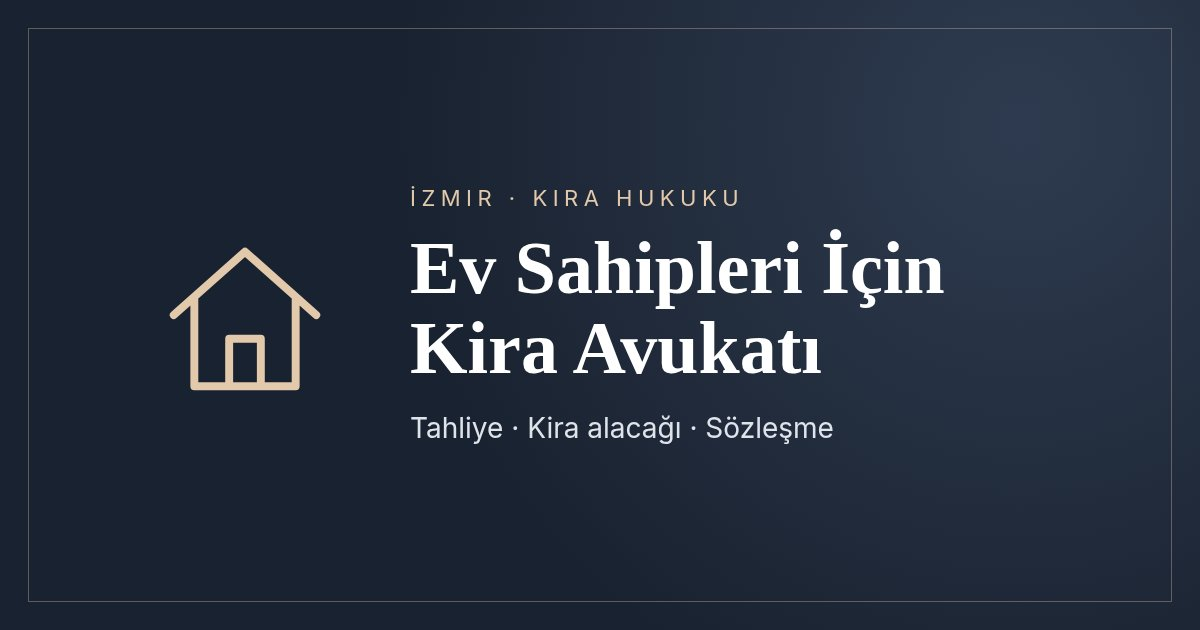
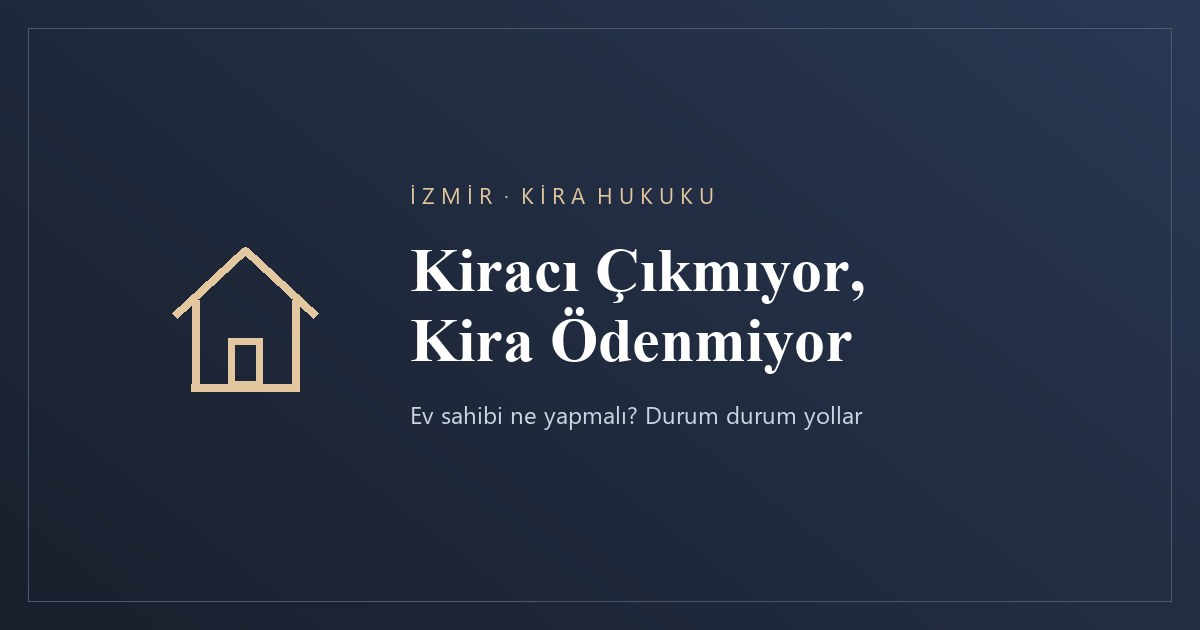
GEO: ev sahibi rehberi (aynı URL) ve tüm yazılara otomatik Kaynaklar, citation, abstract
- /blog/ev-sahipleri-icin-kira-avukati/ ayrı sayfa açmadan (kanibalizasyonu önlemek için) "Kiracı Çıkmıyor veya Kira Ödenmiyor: Ev Sahibi Ne Yapmalı?" rehberine dönüştürüldü: Kısa Cevap, Önemli noktalar, durum/yol/süre tablosu, Örnek 13 adımları, arabuluculuk (18/A-11 güncel), belgeler. TBK 342 (depozito) cümlesi çıkarıldı. Yeni kapak, link metinleri ve llms.txt güncellendi.
- src/lib/laws.ts: ortak mevzuat tablosu (services.ts buradan alır), metinden kanun atıflarını çıkaran extractLawCitations ve Kısa Cevap'ı okuyan extractShortAnswer
- PostArticle: kendi "Kaynaklar" bölümü olmayan her yazıya otomatik Kaynaklar (içtihat notlarında karar künyesi + mevzuat linkleri); yeni hukuki iddia eklenmez
- ArticleSchema: abstract ve citation (Legislation + karar)

diff --git a/src/components/blog/PostArticle.tsx b/src/components/blog/PostArticle.tsx
@@ -17,6 +17,8 @@ import { RelatedPosts } from "@/components/blog/RelatedPosts";
 import { BreadcrumbNav } from "@/components/ui/BreadcrumbNav";
 import { articleProseClasses } from "@/lib/prose-classes";
 import { SITE_NAME } from "@/lib/site";
+import { LAWS, extractLawCitations, extractShortAnswer } from "@/lib/laws";
+import { parseDecision } from "@/lib/blog/ictihat";
 import { format, parseISO } from "date-fns";
 import { tr } from "date-fns/locale";
 
@@ -84,6 +86,19 @@ export function PostArticle({ post }: { post: PostData }) {
 
     const articleUrl = `${SITE_URL}${postHref(post)}`;
 
+    // GEO: metinden türeyen kaynaklar (yeni hukuki iddia eklenmez)
+    const lawSources = extractLawCitations(post.content);
+    const decision = isIctihat ? parseDecision(post) : undefined;
+    const decisionLabel = decision?.court && decision.esas && decision.karar
+        ? `${decision.court}, E. ${decision.esas}, K. ${decision.karar}${decision.tarih ? `, karar tarihi ${decision.tarih}` : ""}`
+        : undefined;
+    const hasOwnSources = /^##\s*Kaynaklar\s*$/m.test(post.content);
+    const shortAnswer = extractShortAnswer(post.content);
+    const citations = [
+        ...(decisionLabel ? [{ "@type": "CreativeWork", "name": decisionLabel }] : []),
+        ...lawSources.map((src) => ({ "@type": "Legislation", "name": LAWS[src.law].name, "url": LAWS[src.law].url })),
+    ];
+
     return (
         <article lang={post.lang || "tr"} className="bg-white min-h-screen pb-24">
             {/* SEO Schemas */}
@@ -94,6 +109,8 @@ export function PostArticle({ post }: { post: PostData }) {
                 dateModified={post.dateModified}
                 image={post.coverImage}
                 url={articleUrl}
+                abstract={shortAnswer}
+                citations={citations}
             />
             {post.faqs && post.faqs.length > 0 && (
                 <FAQSchema faqs={post.faqs} />
@@ -173,6 +190,19 @@ export function PostArticle({ post }: { post: PostData }) {
                     <div className={articleProseClasses}>
                         <MDXRemote source={post.content} options={{ mdxOptions: { remarkPlugins: [remarkGfm] } }} />
                     </div>
+
+                    {/* Kaynaklar (otomatik) */}
+                    {!hasOwnSources && (decisionLabel || lawSources.length > 0) && (
+                        <section className="mt-12" aria-labelledby="kaynaklar">
+                            <h2 id="kaynaklar" className="font-serif text-2xl md:text-3xl font-extrabold text-primary mb-4">Kaynaklar</h2>
+                            <ul className="space-y-2 text-slate-700 leading-7">
+                                {decisionLabel && <li><span className="font-semibold text-primary">İncelenen karar:</span> {decisionLabel}</li>}
+                                {lawSources.map((src) => (
+                                    <li key={src.law}><a href={LAWS[src.law].url} target="_blank" rel="noopener noreferrer" className="font-semibold text-primary underline decoration-secondary decoration-2 underline-offset-4 hover:text-secondary">{LAWS[src.law].name}</a>, {src.articles}</li>
+                                ))}
+                            </ul>
+                        </section>
+                    )}
 
                     {/* Visible FAQ: frontmatter FAQs not already in the body (keeps FAQPage schema == visible content) */}
                     {extraFaqs.length > 0 && (

diff --git a/src/lib/laws.ts b/src/lib/laws.ts
@@ -1,0 +1,59 @@
+// Birincil mevzuat kaynakları (mevzuat.gov.tr). Hizmet sayfaları ve yazılardaki "Kaynaklar" bölümü buradan beslenir.
+export const LAWS = {
+    TBK: { name: "6098 sayılı Türk Borçlar Kanunu", url: "https://www.mevzuat.gov.tr/mevzuat?MevzuatNo=6098&MevzuatTur=1&MevzuatTertip=5" },
+    IIK: { name: "2004 sayılı İcra ve İflas Kanunu", url: "https://www.mevzuat.gov.tr/mevzuat?MevzuatNo=2004&MevzuatTur=1&MevzuatTertip=3" },
+    HMK: { name: "6100 sayılı Hukuk Muhakemeleri Kanunu", url: "https://www.mevzuat.gov.tr/mevzuat?MevzuatNo=6100&MevzuatTur=1&MevzuatTertip=5" },
+    HUAK: { name: "6325 sayılı Hukuk Uyuşmazlıklarında Arabuluculuk Kanunu", url: "https://www.mevzuat.gov.tr/mevzuat?MevzuatNo=6325&MevzuatTur=1&MevzuatTertip=5" },
+    TMK: { name: "4721 sayılı Türk Medeni Kanunu", url: "https://www.mevzuat.gov.tr/mevzuat?MevzuatNo=4721&MevzuatTur=1&MevzuatTertip=5" },
+    AVK: { name: "1136 sayılı Avukatlık Kanunu", url: "https://www.mevzuat.gov.tr/mevzuat?MevzuatNo=1136&MevzuatTur=1&MevzuatTertip=5" },
+    GVK: { name: "193 sayılı Gelir Vergisi Kanunu", url: "https://www.mevzuat.gov.tr/mevzuat?MevzuatNo=193&MevzuatTur=1&MevzuatTertip=4" },
+} as const;
+export type LawKey = keyof typeof LAWS;
+
+/** Metindeki kısaltma -> LAWS anahtarı. */
+const ABBR: Record<string, LawKey> = {
+    "TBK": "TBK", "İİK": "IIK", "HMK": "HMK", "HUAK": "HUAK", "TMK": "TMK",
+    "Avukatlık Kanunu": "AVK", "Av. K.": "AVK", "GVK": "GVK",
+};
+
+// "TBK m. 350", "TBK m. 344, 345", "TBK m. 350 ve 351", "TBK m. 299-356", "HUAK m. 18/A-11", "İİK m. 269/a"
+const ART = String.raw`\d+(?:\/[0-9A-Za-zçğıöşüÇĞİÖŞÜ]+(?:-[0-9A-Za-zçğıöşü]+)?)*(?:-[0-9A-Za-zçğıöşü]+)?`;
+const CITE_RE = new RegExp(String.raw`(TBK|İİK|HMK|HUAK|TMK|Avukatlık Kanunu|Av\. K\.|GVK) m\. (${ART}(?:\s*(?:,|ve)\s*${ART})*)`, "g");
+
+const baseNum = (a: string) => parseInt(a, 10) || 0;
+
+/**
+ * Yazı metninde atıf yapılan kanun maddelerini kanun bazında toplar.
+ * Yeni hukuki iddia üretmez; yalnızca metinde geçen atıfları listeler.
+ */
+export function extractLawCitations(markdown: string): { law: LawKey; articles: string }[] {
+    const found = new Map<LawKey, Set<string>>();
+    for (const m of markdown.matchAll(CITE_RE)) {
+        const key = ABBR[m[1]];
+        if (!key) continue;
+        const set = found.get(key) ?? new Set<string>();
+        for (const part of m[2].split(/\s*(?:,|ve)\s*/)) {
+            const a = part.trim().replace(/[.,;)]+$/, "");
+            if (a) set.add(a);
+        }
+        found.set(key, set);
+    }
+    const order: LawKey[] = ["TBK", "IIK", "HMK", "HUAK", "TMK", "AVK", "GVK"];
+    return order
+        .filter((k) => found.has(k))
+        .map((k) => {
+            const arts = [...found.get(k)!].sort((x, y) => baseNum(x) - baseNum(y) || x.localeCompare(y, "tr"));
+            return { law: k, articles: "m. " + arts.join(", ") };
+        });
+}
+
+/** "## Kısa Cevap" bölümünün ilk paragrafı, düz metin olarak (schema abstract). */
+export function extractShortAnswer(markdown: string): string | undefined {
+    const m = markdown.match(/##\s*Kısa Cevap\s*\n+([\s\S]*?)(?:\n\s*\n|$)/);
+    if (!m) return undefined;
+    return m[1]
+        .replace(/\[([^\]]+)\]\([^)]+\)/g, "$1")
+        .replace(/\*\*|__|`/g, "")
+        .replace(/\s+/g, " ")
+        .trim() || undefined;
+}

diff --git a/src/lib/services.ts b/src/lib/services.ts
@@ -3,14 +3,9 @@
 
 export type ServiceSection = { title: string; paragraphs?: string[]; list?: string[] };
 
-/** Birincil kaynaklar (mevzuat.gov.tr). */
-export const LAWS = {
-    TBK: { name: "6098 sayılı Türk Borçlar Kanunu", url: "https://www.mevzuat.gov.tr/mevzuat?MevzuatNo=6098&MevzuatTur=1&MevzuatTertip=5" },
-    IIK: { name: "2004 sayılı İcra ve İflas Kanunu", url: "https://www.mevzuat.gov.tr/mevzuat?MevzuatNo=2004&MevzuatTur=1&MevzuatTertip=3" },
-    HMK: { name: "6100 sayılı Hukuk Muhakemeleri Kanunu", url: "https://www.mevzuat.gov.tr/mevzuat?MevzuatNo=6100&MevzuatTur=1&MevzuatTertip=5" },
-    HUAK: { name: "6325 sayılı Hukuk Uyuşmazlıklarında Arabuluculuk Kanunu", url: "https://www.mevzuat.gov.tr/mevzuat?MevzuatNo=6325&MevzuatTur=1&MevzuatTertip=5" },
-} as const;
-export type LawKey = keyof typeof LAWS;
+import { LAWS, type LawKey } from "@/lib/laws";
+export { LAWS };
+export type { LawKey };
 
 /** Hizmet sayfalarının son hukuki gözden geçirme tarihi (görünür "Son güncelleme" ve WebPage.lastReviewed). */
 export const SERVICES_REVIEWED = "2026-11-24";

diff --git a/src/components/seo/ArticleSchema.tsx b/src/components/seo/ArticleSchema.tsx
@@ -8,6 +8,10 @@ interface ArticleSchemaProps {
     author?: string;
     image?: string;
     url: string;
+    /** GEO: "Kısa Cevap" paragrafı */
+    abstract?: string;
+    /** GEO: yazıda atıf yapılan mevzuat ve (içtihat notlarında) karar */
+    citations?: Record<string, unknown>[];
 }
 
 export function ArticleSchema({
@@ -17,7 +21,9 @@ export function ArticleSchema({
     dateModified,
     author = "Av. Mert Kağan Çetin",
     image,
-    url
+    url,
+    abstract,
+    citations,
 }: ArticleSchemaProps) {
     const schema = {
         "@context": "https://schema.org",
@@ -47,7 +53,9 @@ export function ArticleSchema({
         },
         "isPartOf": {
             "@id": "https://mertkagancetin.com/#website"
-        }
+        },
+        ...(abstract ? { "abstract": abstract } : {}),
+        ...(citations && citations.length ? { "citation": citations } : {}),
     };
 
     return (
